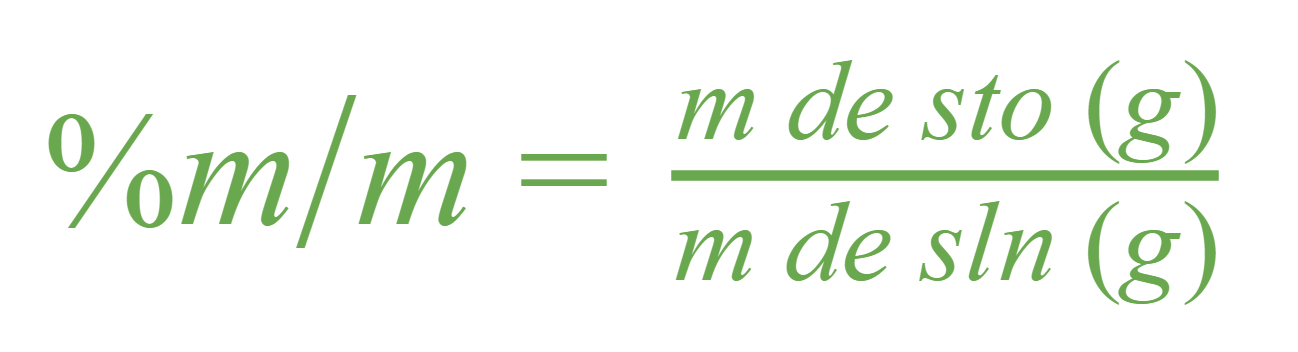
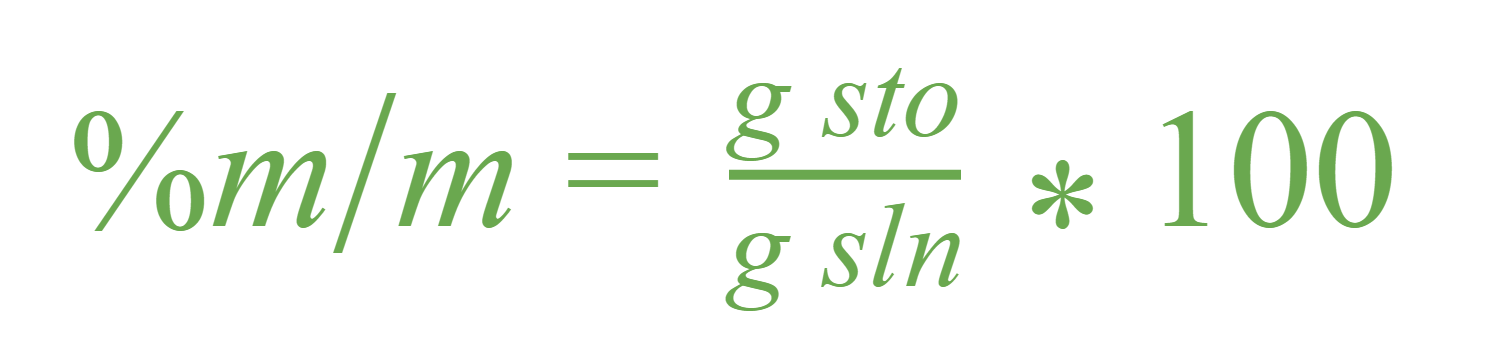
Quimic Formulas

Changed region(s): [[0.0308, 0.1562, 0.9553, 0.875], [0.8937, 0.1875, 0.9245, 0.2188], [0.0308, 0.625, 0.0616, 0.6562]]

diff --git a/lib/src/pages/new_hp.dart b/lib/src/pages/new_hp.dart
@@ -3255,7 +3255,7 @@ class _NewHomePageState extends State<NewHomePage> {
                       triangleColor: colors.quimics[3],
                       resultsSystem: ['g', 'uma', ''],
                       bIsTriangle: true,
-                      pageName: 'Mnm',
+                      pageName: 'MM-Masa-N',
                       params: <Param, double>{
                         Param(name: 'Masa (g)'): 0.0,
                         Param(name: 'Masa Molecular (uma)'): 0.0,
@@ -3274,6 +3274,23 @@ class _NewHomePageState extends State<NewHomePage> {
                     )
                   ],
                 ],
+                'Número de Moles': [
+                  AssetImage('assets/img/formulas/nmoles.png'),
+                  null,
+                  <FormulaButtonArguments>[
+                    FormulaButtonArguments(
+                      pageName: 'Moles',
+                      params: {
+                        Param(name: 'Número de Moléculas'): 1.0,
+                      },
+                      formula: (Map<Param, double> m) {
+                        double nm = m.values.toList()[0];
+
+                        return nm / (6.022e23);
+                      },
+                    ),
+                  ],
+                ],
               },
             ),
           ),
@@ -3288,42 +3305,170 @@ class _NewHomePageState extends State<NewHomePage> {
                 'Densidad de Solución': [
                   AssetImage('assets/img/formulas/denss.png'),
                   AssetImage('assets/img/formulas/denssp.png'),
-                  <FormulaButtonArguments>[],
+                  <FormulaButtonArguments>[
+                    FormulaButtonArguments(
+                      triangleColor: colors.quimics[3],
+                      resultsSystem: ['g', 'g/ml', 'ml'],
+                      bIsTriangle: true,
+                      pageName: 'Masa-Dens-Vol',
+                      params: <Param, double>{
+                        Param(name: 'Masa (g)'): 0.0,
+                        Param(name: 'Densidad (g/ml)'): 0.0,
+                        Param(name: 'Volumen (ml)'): 0.0,
+                      },
+                      formula: (Map<Param, double> m) {
+                        double n = m.values.toList()[0];
+                        double ma = m.values.toList()[1];
+                        double v = m.values.toList()[2];
+
+                        if (n == 0) return ma * v;
+                        if (ma == 0) return n / v;
+                        if (v == 0) return n / ma;
+                        return 0.0;
+                      },
+                    )
+                  ],
                 ],
                 'Moles de Sustancia': [
                   AssetImage('assets/img/formulas/mv.png'),
-                  AssetImage('assets/img/formulas/denssp.png'),
-                  <FormulaButtonArguments>[],
+                  AssetImage('assets/img/formulas/npp.png'),
+                  <FormulaButtonArguments>[
+                    FormulaButtonArguments(
+                      triangleColor: colors.quimics[3],
+                      resultsSystem: ['', 'mol/L', 'L'],
+                      bIsTriangle: true,
+                      pageName: 'N-Masa-Vol',
+                      params: <Param, double>{
+                        Param(name: 'Número de moles'): 0.0,
+                        Param(name: 'Molaridad (mol/L)'): 0.0,
+                        Param(name: 'Volumen (L)'): 0.0,
+                      },
+                      formula: (Map<Param, double> m) {
+                        double n = m.values.toList()[0];
+                        double ma = m.values.toList()[1];
+                        double v = m.values.toList()[2];
+
+                        if (n == 0) return ma * v;
+                        if (ma == 0) return n / v;
+                        if (v == 0) return n / ma;
+                        return 0.0;
+                      },
+                    )
+                  ],
                 ],
                 'Porcentaje Masa-Masa': [
                   AssetImage('assets/img/formulas/pmm.png'),
-                  null,
-                  <FormulaButtonArguments>[],
+                  AssetImage('assets/img/formulas/dp.png'),
+                  <FormulaButtonArguments>[
+                    FormulaButtonArguments(
+                      pageName: '%m/m',
+                      params: {
+                        Param(name: 'gramos de sto'): 1.0,
+                        Param(name: 'gramos de sln'): 1.0,
+                      },
+                      formula: (Map<Param, double> m) {
+                        double msto = m.values.toList()[0];
+                        double msln = m.values.toList()[1];
+
+                        return (msto / msln) * 100;
+                      },
+                    ),
+                  ],
                 ],
                 'Porcentaje Masa-Volumen': [
                   AssetImage('assets/img/formulas/pmv.png'),
                   null,
-                  <FormulaButtonArguments>[],
+                  <FormulaButtonArguments>[
+                    FormulaButtonArguments(
+                      pageName: '%m/v',
+                      params: {
+                        Param(name: 'gramos de sto'): 1.0,
+                        Param(name: 'ml de sln'): 1.0,
+                      },
+                      formula: (Map<Param, double> m) {
+                        double msto = m.values.toList()[0];
+                        double vsln = m.values.toList()[1];
+
+                        return (msto / vsln) * 100;
+                      },
+                    ),
+                  ],
                 ],
                 'Porcentaje Vol-Vol': [
                   AssetImage('assets/img/formulas/pvv.png'),
                   null,
-                  <FormulaButtonArguments>[],
+                  <FormulaButtonArguments>[
+                    FormulaButtonArguments(
+                      pageName: '%v/v',
+                      params: {
+                        Param(name: 'ml de sto'): 1.0,
+                        Param(name: 'ml de sln'): 1.0,
+                      },
+                      formula: (Map<Param, double> m) {
+                        double vsto = m.values.toList()[0];
+                        double vsln = m.values.toList()[1];
+
+                        return (vsto / vsln) * 100;
+                      },
+                    ),
+                  ],
                 ],
                 'Molaridad': [
                   AssetImage('assets/img/formulas/molaridad.png'),
                   null,
-                  <FormulaButtonArguments>[],
+                  <FormulaButtonArguments>[
+                    FormulaButtonArguments(
+                      pageName: 'Molaridad',
+                      params: {
+                        Param(name: 'Moles de sto'): 1.0,
+                        Param(name: 'L de sln'): 1.0,
+                      },
+                      formula: (Map<Param, double> m) {
+                        double nsto = m.values.toList()[0];
+                        double lsln = m.values.toList()[1];
+
+                        return nsto / lsln;
+                      },
+                    ),
+                  ],
                 ],
                 'Molalidad': [
                   AssetImage('assets/img/formulas/molalidad.png'),
                   null,
-                  <FormulaButtonArguments>[],
+                  <FormulaButtonArguments>[
+                    FormulaButtonArguments(
+                      pageName: 'Molalidad',
+                      params: {
+                        Param(name: 'Moles de sto'): 1.0,
+                        Param(name: 'Kg de ste'): 1.0,
+                      },
+                      formula: (Map<Param, double> m) {
+                        double nsto = m.values.toList()[0];
+                        double kgste = m.values.toList()[1];
+
+                        return nsto / kgste;
+                      },
+                    ),
+                  ],
                 ],
                 'Fracción Molar': [
                   AssetImage('assets/img/formulas/fmolar.png'),
                   null,
-                  <FormulaButtonArguments>[],
+                  <FormulaButtonArguments>[
+                    FormulaButtonArguments(
+                      pageName: 'Fracción Molar',
+                      params: {
+                        Param(name: 'Moles del Componente'): 1.0,
+                        Param(name: 'Moles en Total'): 1.0,
+                      },
+                      formula: (Map<Param, double> m) {
+                        double mc = m.values.toList()[0];
+                        double mt = m.values.toList()[1];
+
+                        return mc / mt;
+                      },
+                    ),
+                  ],
                 ],
                 'Dilución': [
                   AssetImage('assets/img/formulas/dilu.png'),
@@ -3333,7 +3478,25 @@ class _NewHomePageState extends State<NewHomePage> {
                 'Mezcla': [
                   AssetImage('assets/img/formulas/molaridadmezcla.png'),
                   null,
-                  <FormulaButtonArguments>[],
+                  <FormulaButtonArguments>[
+                    FormulaButtonArguments(
+                      pageName: 'Molaridad Final',
+                      params: {
+                        Param(name: 'Masa Inicial (g)'): 1.0,
+                        Param(name: 'Masa Final (g)'): 1.0,
+                        Param(name: 'Volumen Inicial (L)'): 1.0,
+                        Param(name: 'Volumen Final (L)'): 1.0,
+                      },
+                      formula: (Map<Param, double> m) {
+                        double mi = m.values.toList()[0];
+                        double mf = m.values.toList()[1];
+                        double vi = m.values.toList()[2];
+                        double vf = m.values.toList()[3];
+
+                        return ((mi * vi) + (mf * vf)) / (vi + vf);
+                      },
+                    ),
+                  ],
                 ],
               },
             ),
